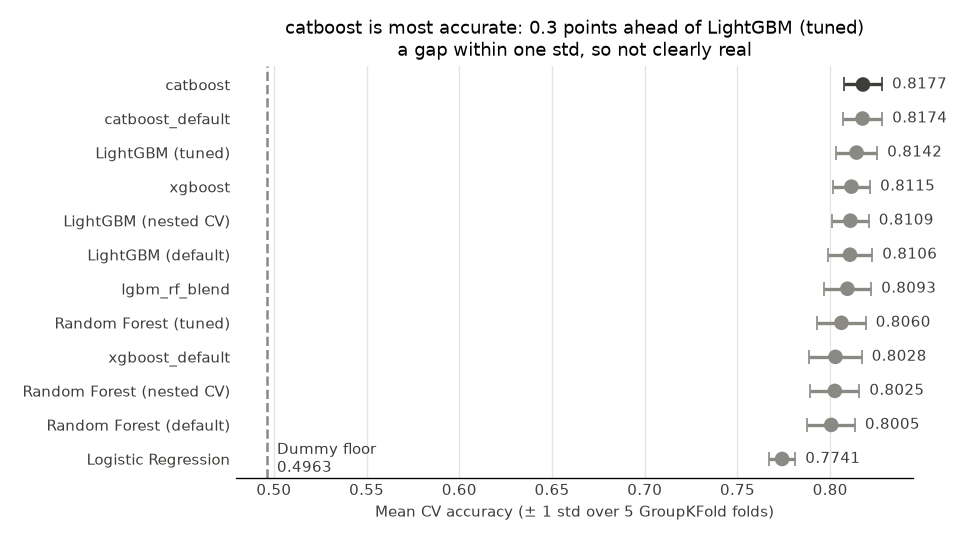
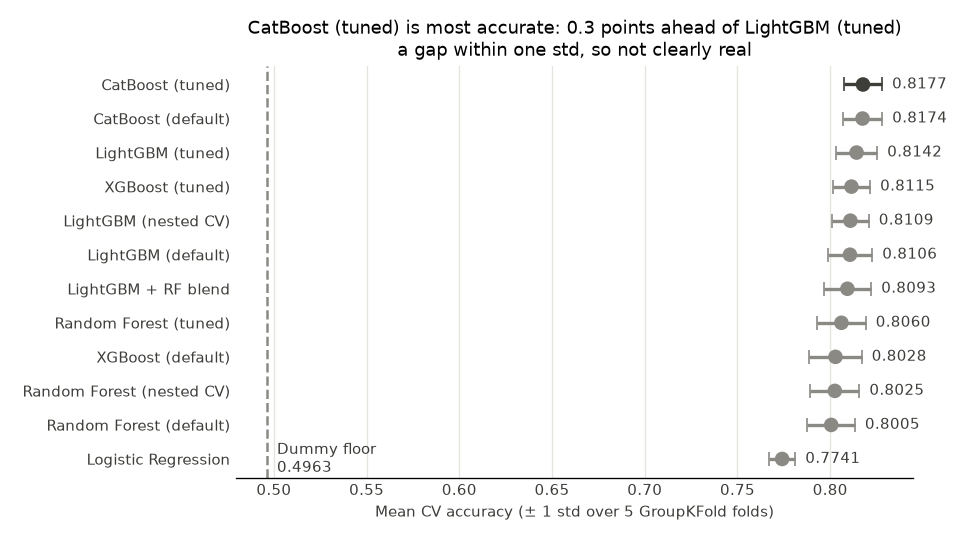
feat: fold-by-fold model check; CatBoost not a clear win, LightGBM stays (refs #19)
- 06b_paired_check.py: refits LightGBM, Random Forest and CatBoost with
  their saved params on the shared folds and applies the 2 x SE rule to
  the per-fold gains. CatBoost vs LightGBM +0.35 pts (4/5 folds, needs
  0.36) -> not a clear win; LightGBM beats RF on 5/5 folds (+0.82)
- 06_compare.py: labels for xgboost, catboost and the blend; chart 13
  highlights its F1 leader and uses fewer x ticks
- reports (roles 1 and 5) synced; agreed slide-10 line; CLAUDE.md lists 06b

diff --git a/06b_paired_check.py b/06b_paired_check.py
@@ -1,0 +1,108 @@
+"""Is a challenger clearly better than the final model? Fold-by-fold check (Role 1).
+
+06_compare.py ranks models by mean accuracy, and every mean has a fold-to-fold
+std of about 1 point. But all models use the same 5 get_cv() folds, so they
+can be compared fold by fold: fold difficulty then cancels out, and the noise
+that matters is how much the per-fold *gain* varies.
+
+Rule (same as 02b_feature_experiments.py): a challenger is a clear win only if
+its mean gain is more than 2 standard errors of the per-fold gains (a rough
+95% check). Otherwise the final model stays, because a smaller lead could be
+which passengers landed in which fold.
+
+Each model is refitted with its saved best_params_<name>.json on the shared
+folds (no re-tuning); the means equal the rows in results.csv. Nothing is
+written. xgboost is not checked: it scores below the final model on average.
+
+Run from the project folder:  python 06b_paired_check.py   (about 1 minute)
+Self-test:                    python 06b_paired_check.py --self-test
+"""
+import importlib
+import json
+import sys
+
+import numpy as np
+import pandas as pd
+from sklearn.model_selection import cross_validate
+
+from src.config import RESULTS_DIR, SEED, TARGET, TRAIN_PATH
+from src.evaluation import get_cv, get_groups
+from src.features import add_features
+
+FINAL = "lightgbm"  # the model 07_final_model.py ships
+
+
+def _catboost_pipeline():
+    # Built exactly as in 04b_xgboost_catboost.py (imported there next to xgboost,
+    # so it is rebuilt here to keep this check runnable without xgboost).
+    from catboost import CatBoostClassifier
+    from sklearn.pipeline import Pipeline
+    from src.features import build_preprocessor
+    return Pipeline([("prep", build_preprocessor()),
+                     ("model", CatBoostClassifier(random_seed=SEED, verbose=0,
+                                                  allow_writing_files=False))])
+
+
+# name -> untuned pipeline, built by the owner's script
+PIPELINES = {
+    "lightgbm": lambda: importlib.import_module("05_lightgbm").make_pipeline(),
+    "random_forest": lambda: importlib.import_module("04_random_forest").make_pipeline(),
+    "catboost": _catboost_pipeline,
+}
+
+
+def paired_verdict(base, challenger):
+    """Mean per-fold gain of challenger over base, and whether it is clear."""
+    gain = pd.Series(challenger) - pd.Series(base)
+    threshold = 2 * gain.std(ddof=1) / np.sqrt(len(gain))
+    return {"gain": gain.mean(), "threshold": threshold, "per_fold": gain,
+            "better_folds": int((gain > 0).sum()), "clear_win": gain.mean() > threshold}
+
+
+def fold_scores(name, X, y, groups):
+    """Accuracy on each shared fold with the model's saved best parameters."""
+    params = json.loads((RESULTS_DIR / f"best_params_{name}.json").read_text())
+    pipe = PIPELINES[name]().set_params(**params)
+    return pd.Series(cross_validate(pipe, X, y, groups=groups, cv=get_cv(),
+                                    scoring="accuracy", error_score="raise")["test_score"])
+
+
+def main():
+    raw = pd.read_csv(TRAIN_PATH)
+    X, y, groups = add_features(raw).drop(columns=[TARGET]), raw[TARGET], get_groups(raw)
+    scores = {name: fold_scores(name, X, y, groups) for name in PIPELINES}
+
+    print("Accuracy per shared fold (saved best params):")
+    for name, s in scores.items():
+        print(f"   {name:14} {', '.join(f'{a:.4f}' for a in s)}  mean {s.mean():.4f}")
+    for name in PIPELINES:
+        if name == FINAL:
+            continue
+        v = paired_verdict(scores[FINAL], scores[name])
+        print(f"\n{name} vs {FINAL}: gain {v['gain'] * 100:+.2f} pts (per fold "
+              f"{', '.join(f'{g * 100:+.2f}' for g in v['per_fold'])}; better on "
+              f"{v['better_folds']}/5); needs > 2 x SE = {v['threshold'] * 100:.2f} pts -> "
+              + (f"clear win: the team should consider switching to {name}."
+                 if v["clear_win"] else f"not a clear win: {FINAL} stays the final model."))
+
+
+def _self_test():
+    """The verdict follows the 2 x standard-error rule on the per-fold gains."""
+    import pandas as pd
+
+    base = pd.Series([0.80, 0.81, 0.82, 0.79, 0.80])
+    # Ahead on every fold by about 1 point: a clear, consistent win.
+    clear = paired_verdict(base, base + [0.010, 0.011, 0.009, 0.010, 0.012])
+    assert clear["clear_win"] and clear["better_folds"] == 5
+    # Same mean gain but it swings across folds: not clearly real.
+    noisy = paired_verdict(base, base + [0.04, -0.02, 0.03, -0.01, 0.01])
+    assert not noisy["clear_win"]
+    assert abs(noisy["gain"] - 0.01) < 1e-12
+    print("Self-test passed: paired_verdict() applies the 2 x SE rule.")
+
+
+if __name__ == "__main__":
+    if "--self-test" in sys.argv:
+        _self_test()
+    else:
+        main()

diff --git a/06_compare.py b/06_compare.py
@@ -13,6 +13,7 @@ Self-test: python 06_compare.py --self-test
 import sys
 
 import matplotlib.pyplot as plt
+from matplotlib.ticker import MaxNLocator
 import pandas as pd
 
 from src.config import PLOT_DIR, RESULTS_DIR
@@ -25,7 +26,12 @@ LABELS = {"dummy_most_frequent": "Dummy (most frequent)",
           "lightgbm_default": "LightGBM (default)",
           "lightgbm": "LightGBM (tuned)",
           "random_forest_nested": "Random Forest (nested CV)",
-          "lightgbm_nested": "LightGBM (nested CV)"}
+          "lightgbm_nested": "LightGBM (nested CV)",
+          "xgboost_default": "XGBoost (default)",
+          "xgboost": "XGBoost (tuned)",
+          "catboost_default": "CatBoost (default)",
+          "catboost": "CatBoost (tuned)",
+          "lgbm_rf_blend": "LightGBM + RF blend"}
 METRICS = {"precision_mean": "Precision", "recall_mean": "Recall", "f1_mean": "F1"}
 
 
@@ -154,7 +160,9 @@ def plot_accuracy(table, path):
 def plot_prf(table, path, top=3):
     """Three small panels (precision | recall | F1) for the top models."""
     models = _candidates(table).head(top).iloc[::-1]
-    colors = [INK if m == _verdict(table)[0]["model"] else NEUTRAL for m in models["model"]]
+    # Highlight the F1 leader, the model this chart's title is about.
+    best = models.loc[models["f1_mean"].idxmax()]  # computed, not assumed
+    colors = [INK if m == best["model"] else NEUTRAL for m in models["model"]]
     lo = models[list(METRICS)].min().min() - 0.02
     hi = models[list(METRICS)].max().max() + 0.02
 
@@ -166,10 +174,10 @@ def plot_prf(table, path, top=3):
                         ha="center", fontsize=9, color=INK)
         ax.set_ylim(-0.6, len(models) - 0.5)
         ax.set_xlim(lo, hi)
+        ax.xaxis.set_major_locator(MaxNLocator(nbins=4))  # no labels colliding between panels
         ax.set_title(name, fontsize=10)
         _style(ax, [_label(m) for m in models["model"]], "")
     # Recall vs precision tells the slide which way each model errs.
-    best = models.loc[models["f1_mean"].idxmax()]  # computed, not assumed
     leans = "finding transported passengers (recall)" if best["recall_mean"] > best["precision_mean"] \
         else "being right when it says transported (precision)"
     fig.suptitle(f"{_label(best['model'])} leads on F1 and is slightly better at {leans}",

diff --git a/reports/role5_presentation.md b/reports/role5_presentation.md
@@ -1,13 +1,12 @@
 # Role 5 – Analysis & presentation (Bard)
-Last updated: 2026-11-15 · Status: In progress
+Last updated: 2026-11-20 · Status: In progress
 
 ## 1. Slide summary
-- Tuned LightGBM has the highest mean CV accuracy: **0.8142 ± 0.0112** (5 GroupKFold folds).
-- Its lead is small: 0.8 points ahead of the best other algorithm, Random Forest tuned (0.8060 ± 0.0131), a gap within one standard deviation, so it may not be meaningful; it fits in 0.17 s per fold against 2.05 s.
-- Tuning added only 0.4 points over LightGBM default (0.8106 ± 0.0121), also within one standard deviation.
-- The four tree models are close together (0.8005–0.8142); all beat Logistic Regression (0.7741 ± 0.0071).
+- Three boosting libraries land within 0.62 points: CatBoost (tuned) 0.8177 ± 0.0103, LightGBM (tuned) 0.8142 ± 0.0112, XGBoost (tuned) 0.8115 ± 0.0101 (5 GroupKFold folds).
+- CatBoost is slightly ahead of LightGBM (+0.35 pts, better on 4/5 folds), but the fold-by-fold check needs > 0.36 pts, so it is not a clear win; LightGBM fits in 0.17 s per fold against 2.55 s.
+- LightGBM clearly beats tuned Random Forest (0.8060 ± 0.0131): +0.82 pts and better on all 5 folds (threshold 0.39 pts).
+- Tuning matters little: CatBoost default (0.8174 ± 0.0106) is almost the same as tuned; every tree model beats Logistic Regression (0.7741 ± 0.0071).
 - Every model beats the Dummy floor of 0.4963, so they all learned real signal.
-- Tuned LightGBM also has the best recall (0.8267) and F1 (0.8176); Random Forest tuned has slightly higher precision (0.8129).
 
 ## 2. What I did
 Numbered steps in the order done, each with the script/function that does it.
@@ -15,29 +14,38 @@ Numbered steps in the order done, each with the script/function that does it.
 1. Created the five role reports in `reports/` from the CLAUDE.md template, each with its role's deliverables as a checklist (`/create-reports`).
 2. Wrote `06_compare.py` with Role 1 (Pun), test first: `python 06_compare.py --self-test` checks `latest_per_model()`, `comparison_table()` and `conclusion()` on a small made-up table (including a model logged twice), then the implementation was written until it passed.
 3. `06_compare.py` reads `results/results.csv` only (no retraining, no recomputed scores) and keeps the latest row per model name (`latest_per_model()`).
-4. `comparison_table()` writes `results/model_comparison.csv`, sorted by mean CV accuracy; `conclusion()` prints the winner, its gap to the best model of a *different* algorithm (so tuned vs untuned LightGBM is not mistaken for the model choice), the tuning gain over its own default, and whether each gap is within one std. The Dummy claim is only printed when it holds.
-5. `plot_accuracy()` → `plots/12_model_accuracy.png`; `plot_prf()` → `plots/13_precision_recall_f1.png` (top 3 models).
+4. `comparison_table()` writes `results/model_comparison.csv`, sorted by mean CV accuracy; `conclusion()` prints the winner, its gap to the best model of a *different* algorithm (so tuned vs untuned CatBoost is not mistaken for the model choice), the tuning gain over its own default, and whether each gap is within one std. A nested-CV line is printed only when the winner has a nested row; the Dummy claim only when it holds.
+5. `plot_accuracy()` → `plots/12_model_accuracy.png`; `plot_prf()` → `plots/13_precision_recall_f1.png` (top 3 models, the F1 leader highlighted).
+6. Added display labels (`LABELS` in `06_compare.py`) for the new rows `xgboost`, `xgboost_default`, `catboost`, `catboost_default` (PR #28, Roles 3 and 2) and `lgbm_rf_blend` (Role 4), and re-ran the script.
+7. Used Role 1's `06b_paired_check.py` to compare the challengers with LightGBM fold by fold on the shared folds, because the ±1 std overlap in `06_compare.py` cannot tell whether a small lead is real (results in section 4).
 
 ## 3. Key decisions and why
 | Decision | Why | Evidence (number, chart or source) |
 |---|---|---|
 | Comparison reads `results.csv` only, never retrains | Rule 3: every slide number must trace to `evaluate()`; retraining could give numbers different from the role reports | `06_compare.py` reads only `results/results.csv`; its table matches `results.csv` row for row |
 | Keep the latest row per model name | A re-run appends a new row; the newest run is the one the owner's report describes | `latest_per_model()`; covered by the self-test (duplicate `rf` row) |
-| Dot + ±1 std plot, not bars | A bar must start at 0, which would squash the 0.77–0.81 differences into nearly identical bars; a dot plot can zoom the axis honestly | `plots/12_model_accuracy.png` |
+| Dot + ±1 std plot, not bars | A bar must start at 0, which would squash the 0.77–0.82 differences into nearly identical bars; a dot plot can zoom the axis honestly | `plots/12_model_accuracy.png` |
 | Neutral `#8a8984` + dark ink for the winner, not blue/orange | The team reserves `#2a78d6` / `#eb6834` for transported / not transported; reusing them for models would confuse the audience | CLAUDE.md shared rule 8 |
 | Small multiples (one panel per metric) for precision/recall/F1 instead of a 3-colour grouped bar | Same colour reason, and each metric gets its own readable panel | `plots/13_precision_recall_f1.png` |
 | Dummy shown as a dashed floor line, not a dot | It is a reference point (0.4963), not a competitor | `plots/12_model_accuracy.png` |
+| Judge "is model A better than B?" fold by fold, not by std overlap | All models use the same folds, so fold difficulty cancels; a clear win needs mean per-fold gain > 2 × standard error | `06b_paired_check.py`: LightGBM vs RF 0.82 pts (needs > 0.39, clear); CatBoost vs LightGBM +0.35 pts (needs > 0.36, not clear) |
+| Ship LightGBM, not CatBoost | CatBoost's lead is not a clear win fold by fold; LightGBM was the pre-set choice and fits about 15× faster | `06b_paired_check.py` output; `results.csv` fit times 2.5505 s (CatBoost) vs 0.1735 s (LightGBM) per fold |
 | No separate task board or meeting notes file | No regular meetings are planned, and a Markdown board would duplicate the `CLAUDE.md` Status checklist, each report's section 9 and the GitHub PRs | Teamwork evidence = `CLAUDE.md` Status checklist + reviewed, merged PRs (#1–#4 so far) |
 
 ## 4. Results
-Copied from the printed output of `python 06_compare.py` (run 2026-10-31); also saved as `results/model_comparison.csv`. CV = 5-fold GroupKFold by travel group.
+Copied from the printed output of `python 06_compare.py` (run 2026-11-20); also saved as `results/model_comparison.csv`. CV = 5-fold GroupKFold by travel group.
 
 | Model | Owner | Accuracy (mean ± std) | Precision | Recall | F1 | ROC-AUC | Fit time (s) |
 |---|---|---|---|---|---|---|---|
+| catboost (tuned) | Roles 3 and 2 | 0.8177 ± 0.0103 | 0.8141 | 0.8269 | 0.8203 | 0.9085 | 2.5505 |
+| catboost_default | Roles 3 and 2 | 0.8174 ± 0.0106 | 0.8117 | 0.8304 | 0.8208 | 0.9084 | 3.9357 |
 | lightgbm (tuned) | Role 4 | 0.8142 ± 0.0112 | 0.8088 | 0.8267 | 0.8176 | 0.9025 | 0.1735 |
+| xgboost (tuned) | Roles 3 and 2 | 0.8115 ± 0.0101 | 0.8147 | 0.8098 | 0.8121 | 0.9028 | 0.6325 |
 | lightgbm_nested | Role 1 | 0.8109 ± 0.0099 | 0.8056 | 0.8234 | 0.8142 | 0.9042 | 35.7492* |
 | lightgbm_default | Role 4 | 0.8106 ± 0.0121 | 0.8080 | 0.8188 | 0.8132 | 0.9030 | 0.1002 |
+| lgbm_rf_blend | Role 4 | 0.8093 ± 0.0129 | 0.8078 | 0.8154 | 0.8114 | 0.9022 | 1.3082 |
 | random_forest (tuned) | Role 3 | 0.8060 ± 0.0131 | 0.8129 | 0.7991 | 0.8057 | 0.8950 | 2.0473 |
+| xgboost_default | Roles 3 and 2 | 0.8028 ± 0.0142 | 0.8083 | 0.7975 | 0.8028 | 0.8966 | 0.2056 |
 | random_forest_nested | Role 1 | 0.8025 ± 0.0133 | 0.8078 | 0.7979 | 0.8026 | 0.8944 | 53.2444* |
 | random_forest_default | Role 3 | 0.8005 ± 0.0128 | 0.8270 | 0.7638 | 0.7940 | 0.8852 | 1.2509 |
 | logistic_regression | Role 2 | 0.7741 ± 0.0071 | 0.7668 | 0.7922 | 0.7792 | 0.8525 | 0.0448 |
@@ -45,37 +53,55 @@ Copied from the printed output of `python 06_compare.py` (run 2026-10-31); also 
 
 \* Nested rows come from `05b_nested_cv.py` (Role 1, issue #16): an honest re-score of the tuned model, not a separate model. Their fit time includes the whole inner search, so it is not comparable.
 
-Printed conclusion (verbatim): "LightGBM (tuned) has the highest mean CV accuracy, 0.8142 ± 0.0112, 0.8 points ahead of Random Forest (tuned) (0.8060 ± 0.0131). The gap is within one standard deviation, so the difference may not be meaningful. It fits in 0.17 s per fold against 2.05 s. Tuning adds 0.4 points over LightGBM (default) (0.8106 ± 0.0121), also within one standard deviation. Nested CV, which removes the luck of picking the best of many settings, gives LightGBM (nested CV) 0.8109 ± 0.0099, 0.3 points below the tuned score: that is the honest estimate for new data. Every model beats the Dummy floor of 0.4963, so they all learned real signal."
+Printed conclusion (verbatim): "CatBoost (tuned) has the highest mean CV accuracy, 0.8177 ± 0.0103, 0.3 points ahead of LightGBM (tuned) (0.8142 ± 0.0112). The gap is within one standard deviation, so the difference may not be meaningful. It fits in 2.55 s per fold against 0.17 s. Tuning adds 0.0 points over CatBoost (default) (0.8174 ± 0.0106), also within one standard deviation. Every model beats the Dummy floor of 0.4963, so they all learned real signal."
 
-The 0.8- and 0.4-point gaps above are printed by the script. One extra gap for Q&A, by plain subtraction of the printed means: tuning added 0.0055 accuracy to Random Forest (0.8060 vs 0.8005).
+The gaps in the conclusion are printed by the script. Extra gaps for Q&A, by plain subtraction of the printed means: tuning added 0.0055 accuracy to Random Forest (0.8060 vs 0.8005), 0.0036 to LightGBM (0.8142 vs 0.8106) and 0.0087 to XGBoost (0.8115 vs 0.8028); the three tuned boosting models span 0.0062 (0.8115 to 0.8177).
+
+**Fold-by-fold check:** copied from the printed output of `python 06b_paired_check.py` (Role 1, run 2026-11-20). Each model is refitted with its saved `best_params_<name>.json` on the shared `get_cv()` folds (no re-tuning); the means equal the `results.csv` rows. Rule: a challenger is a clear win only if its mean per-fold gain is more than 2 × the standard error of the per-fold gains.
+
+| Model | Fold 1 | Fold 2 | Fold 3 | Fold 4 | Fold 5 | Mean |
+|---|---|---|---|---|---|---|
+| lightgbm | 0.8281 | 0.8217 | 0.8189 | 0.7986 | 0.8038 | 0.8142 |
+| random_forest | 0.8194 | 0.8212 | 0.8074 | 0.7894 | 0.7929 | 0.8060 |
+| catboost | 0.8321 | 0.8269 | 0.8154 | 0.8055 | 0.8084 | 0.8177 |
+
+Verdicts (verbatim):
+- "random_forest vs lightgbm: gain -0.82 pts (per fold -0.86, -0.06, -1.15, -0.92, -1.09; better on 0/5); needs > 2 x SE = 0.39 pts -> not a clear win: lightgbm stays the final model."
+- "catboost vs lightgbm: gain +0.35 pts (per fold +0.40, +0.52, -0.35, +0.69, +0.46; better on 4/5); needs > 2 x SE = 0.36 pts -> not a clear win: lightgbm stays the final model."
+
+Read the first verdict the other way round: LightGBM beats tuned Random Forest on all 5 folds, by 0.82 pts on average, more than the 0.39-pt threshold, so that is a clear win for LightGBM. XGBoost is not checked by the script because it scores below LightGBM on average (0.8115 vs 0.8142).
 
 ## 5. Charts for the slides
 | File in plots/ | One-line caption (the finding) | Suggested slide |
 |---|---|---|
-| `plots/12_model_accuracy.png` | Tuned LightGBM is most accurate (0.8142), but the four tree models' ±1 std bars overlap; every model is far above the Dummy floor (0.4963) | Slide 10 – Model comparison |
-| `plots/13_precision_recall_f1.png` | Tuned LightGBM leads on F1 (0.8176) and recall (0.8267); Random Forest tuned trades recall (0.7991) for slightly higher precision (0.8129) | Slide 10 (second half) or Slide 11 – Best model |
+| `plots/12_model_accuracy.png` | CatBoost (tuned) is most accurate (0.8177), 0.3 points ahead of LightGBM (tuned) (0.8142), a gap within one std; all tree and boosting models sit between 0.8005 and 0.8177 with overlapping ±1 std bars, far above the Dummy floor (0.4963) | Slide 10 – Model comparison |
+| `plots/13_precision_recall_f1.png` | Among the top 3 by accuracy, CatBoost (default) leads on F1 (0.8208) and recall (0.8304), CatBoost (tuned) has the best precision (0.8141), and LightGBM (tuned) is close behind (F1 0.8176) | Slide 10 (second half) or Slide 11 – Best model |
 
 ## 6. Bias and leakage checks
 - **Numbers only from `evaluate()`:** `06_compare.py` reads `results/results.csv` and nothing else; it does not retrain or recompute any score (shared rule 3).
 - **Same folds for every model:** every row in `results.csv` comes from `evaluate()` with `get_cv()` (GroupKFold, 5 folds by travel group, `SEED = 42`), so all models are compared on identical splits.
 - **No test.csv:** the comparison and the model choice use CV scores on train.csv only.
 - **Uncertainty shown, not hidden:** the chart and the conclusion report ±1 std and say when a gap is within it, so a small lead is not over-sold.
+- **Paired check before switching models:** `06b_paired_check.py` refits the saved best parameters (no re-tuning) on the same folds; a challenger replaces LightGBM only with a clear fold-by-fold win, so we do not chase a lead that could be fold luck.
 - **Honest axis:** dot plot with a labelled Dummy floor instead of a truncated bar chart, so the visual gap matches the numeric gap.
 
 ## 7. Problems and how I fixed them
 Short bullets: issue → fix. These make good "lessons learned" slides.
 - A re-run appends a second row for the same model to `results.csv` → `latest_per_model()` keeps the newest row per model and prints a note; checked by the self-test.
-- Bars must start at 0, so 0.77 vs 0.81 would look identical → dot plot with ±1 std error bars.
+- Bars must start at 0, so 0.77 vs 0.82 would look identical → dot plot with ±1 std error bars.
 - Blue/orange are reserved for the target classes → team neutral plus dark ink for the winner, and small multiples instead of a 3-colour grouped bar.
+- "Within one std" suggested the LightGBM vs Random Forest gap might not be real, but each model's std also contains how hard each fold is → the fold-by-fold check (`06b_paired_check.py`) cancels fold difficulty and shows LightGBM wins on all 5 folds.
 
 ## 8. Likely Q&A questions
 | Question | Short answer |
 |---|---|
-| Is LightGBM really better than Random Forest? | Not clearly. Tuned LightGBM 0.8142 ± 0.0112 vs tuned RF 0.8060 ± 0.0131: a 0.0082 gap, smaller than either std. LightGBM is best on average, has the best F1 (0.8176) and recall (0.8267), and fits much faster (0.1735 s vs 2.0473 s), so it is a reasonable pick, not a proven winner. |
-| Why does tuning add so little? | Both tree models are already strong with default settings; tuning added 0.0036 (LightGBM) and 0.0055 (RF) accuracy, both within one std. Most of the gain comes from the features and the model family, not the hyperparameters. |
+| Is LightGBM really better than Random Forest? | Yes. On the same 5 folds LightGBM beats tuned RF on every fold, by 0.82 pts on average; the clear-win threshold (2 × standard error) is 0.39 pts. The means (0.8142 ± 0.0112 vs 0.8060 ± 0.0131) overlap within one std only because each std includes fold difficulty, which cancels when comparing fold by fold. |
+| CatBoost scores highest, why not ship it? | Its lead over LightGBM is +0.35 pts and it is better on 4/5 folds, but a clear win needs > 0.36 pts, so it is not a clear win. LightGBM fits about 15× faster (0.17 s vs 2.55 s per fold) and was the pre-set choice, so it stays. |
+| Why compare fold by fold? | Every model uses the same `get_cv()` folds, so how hard each fold is cancels out when we subtract scores fold by fold. The spread of the per-fold gain is then the right noise measure, not the ±1 std of each model's mean. |
+| Why does tuning add so little? | The tree models are already strong with default settings: tuning added 0.0036 (LightGBM), 0.0055 (RF) and 0.0087 (XGBoost) accuracy, and CatBoost tuned (0.8177) is almost the same as default (0.8174), all within one std. Most of the gain comes from the features and the model family, not the hyperparameters. |
 | Where do the numbers on the comparison slide come from? | Only from `results/results.csv`, written by `evaluate()` in each model script. `06_compare.py` copies them; it never retrains. |
 | Were all models compared fairly? | Yes: the same `get_cv()` GroupKFold folds (by travel group), the same `build_preprocessor()` inside a Pipeline, the same seed, and tuning only through CV on train.csv. |
-| Why a dot plot and not a bar chart? | Bars must start at 0, which hides 0.77–0.81 differences; a dot with ±1 std shows both the gap and the uncertainty honestly. |
+| Why a dot plot and not a bar chart? | Bars must start at 0, which hides 0.77–0.82 differences; a dot with ±1 std shows both the gap and the uncertainty honestly. |
 | Why is the Dummy's recall 0.8000? | It always predicts the majority class of the training folds; recall is 1 on folds where that class is "True" and 0 otherwise, so the 5-fold mean is 0.8000. Its accuracy (0.4963) is the floor every model must beat. |
 
 ## 9. Open items / handover
@@ -86,8 +112,8 @@ What's not done yet and who needs what from me.
 - [ ] Build slides from `reports/`: read reports regularly, ask owners when a section is empty or a number doesn't match `results.csv`
 - [ ] Keep this report up to date: slide plan with source reports, missing content, rehearsal notes (timing, who presents what)
 - [ ] `notes/qa_prep.md`: collect section 8 from every report + likely questions ("Why GroupKFold?", "Why accuracy?", "Why drop Name?", "How did you prevent leakage?", "Why this model?"); make sure every member rehearses them
-- [x] `06_compare.py` (with Role 1): comparison table and chart from `results.csv` (mean ± std across folds) – script, `results/model_comparison.csv` and plots 12–13 done; merged in PR #13. Nested-CV rows added by Role 1 (issue #16): they show in the table and chart 12 but never as the runner-up or in chart 13
-- [ ] State on slide 10 that tuned LightGBM's lead over LightGBM default (0.4 pts: 0.8142 vs 0.8106) and over Random Forest tuned (0.8142 vs 0.8060) is within one std, so the choice rests on the best mean plus speed, not on a proven difference
+- [x] `06_compare.py` (with Role 1): comparison table and chart from `results.csv` (mean ± std across folds) – script, `results/model_comparison.csv` and plots 12–13 done; merged in PR #13. Nested-CV rows added by Role 1 (issue #16): they show in the table and chart 12 but never as the runner-up or in chart 13. Labels for XGBoost, CatBoost and the LightGBM + RF blend added 2026-11-20
+- [ ] Put the team's agreed wording on slide 10: "Three boosting libraries land within 0.62 points (81.15%–81.77%). CatBoost is slightly ahead (+0.35 pts) but not a clear win fold by fold, so we ship LightGBM: about 15× faster to fit. LightGBM does clearly beat Random Forest (better on all 5 folds)." Checked against `results.csv` and `06b_paired_check.py`: xgboost 0.8115, catboost 0.8177 (gap 0.0062); fit times 2.5505 s vs 0.1735 s per fold; CatBoost +0.35 pts (needs > 0.36); LightGBM better than RF on 5/5 folds.
 - [ ] Re-run `python 06_compare.py` whenever a model script is re-run, so the table and plots match `results.csv`
 - [x] Teamwork evidence: decided to use the `CLAUDE.md` Status checklist + GitHub PRs instead of a task board and `notes/meetings.md` (see section 3). `CLAUDE.md` updated to match (Pun to review the PR).
 - [ ] At least one full timed rehearsal with the whole team

diff --git a/reports/role1_lead.md b/reports/role1_lead.md
@@ -1,9 +1,9 @@
 # Role 1 – Lead / integrator (Pun)
-Last updated: 2026-11-15 · Status: Done
+Last updated: 2026-11-20 · Status: Done
 
 ## 1. Slide summary
 - **Final model: LightGBM**, CV accuracy **0.8142 ± 0.0112** (ROC-AUC 0.9025), retrained on all 8,693 rows → `submission.csv` (4,277 rows).
-- LightGBM vs Random Forest (0.8060 ± 0.0131) is within one std, but LightGBM is ~12× faster to fit (0.17 s vs 2.05 s per fold) → best on both counts.
+- Fold by fold (`06b_paired_check.py`), LightGBM **clearly** beats Random Forest (+0.82 pts, better on all 5 folds) and fits ~12× faster. CatBoost (0.8177) is +0.35 pts ahead of LightGBM but **not** a clear win (needs > 0.36 pts), so LightGBM stays the final model.
 - The whole pipeline 01→07 (including 06_compare) re-runs from a clean checkout in ~196 s with **identical** scores, parameters, comparison table, 13 plots and submission.
 - Every model is validated on the **same 5 GroupKFold folds**, grouped by travel group (`gggg` of `PassengerId`).
 - Every model is scored by **one function**, `evaluate()`: accuracy, precision, recall, F1, ROC-AUC (mean ± std) and fit time, logged to `results/results.csv`.
@@ -26,6 +26,8 @@ Last updated: 2026-11-15 · Status: Done
 11. Final clean run on 2026-10-31 after `06_compare.py` was merged: all 7 scripts exit 0; `results.csv` metrics, both `best_params` files, `model_comparison.csv`, `eda_findings.txt`, all 13 plots and `submission.csv` (byte for byte) identical to `main`.
 
 12. `05b_nested_cv.py` (issue #16): for each of the 5 shared outer folds, re-runs 04/05's exact random search (same space, 30 settings, seed) on the other 4 folds with inner folds grouped by travel group, refits the best setting there and scores it on the unseen outer fold. Logged with `evaluate()` as `random_forest_nested` / `lightgbm_nested`. `06_compare.py` shows these rows but never treats them as rival models.
+13. `06b_paired_check.py` (after PR #28 added CatBoost): refits LightGBM, Random Forest and CatBoost with their saved best params on the 5 shared folds and compares each challenger with LightGBM fold by fold (clear win only if mean gain > 2 × standard error of the per-fold gains, the rule from `02b`).
+14. Made two extra Kaggle files on request, not committed: `submission_lightgbm.csv` (copy of `submission.csv`) and `submission_catboost.csv` (CatBoost with its saved params, built with `07`'s own functions). The two agree on 4,037 of 4,277 passengers (94.4%). The final model is still chosen by CV, not by Kaggle score.
 
 ## 3. Key decisions and why
 | Decision | Why | Evidence (number, chart or source) |
@@ -37,6 +39,7 @@ Last updated: 2026-11-15 · Status: Done
 | One row per model in results.csv (re-run replaces) | Re-runs before merging must not leave duplicates; comparison can't pick a stale or best-of-N row | Self-test: 2 runs of "dummy" → 1 row |
 | Final model = best tuned model by CV mean accuracy | Accuracy is the Kaggle metric; only models with a `best_params_*.json` are candidates, so baselines are never shipped | `choose_model()` in `07_final_model.py` |
 | Flag when top two are within one std | A gap smaller than fold-to-fold noise isn't a real win; the simpler/faster model is then defensible | Printed note in `07_final_model.py` |
+| Decide model switches fold by fold (2 × SE rule) | All models share the same folds, so fold difficulty cancels; the per-fold gain's spread is the right noise measure, and the one-std rule is too cautious | `06b_paired_check.py`: LightGBM vs RF clear (+0.82, 5/5), CatBoost vs LightGBM not clear (+0.35 vs 0.36 needed) |
 | Refit once on all train.csv, no re-tuning | More data for the final fit; tuning already happened in CV; test.csv never used for choices | `main()` in `07_final_model.py` |
 | Check submission before writing | Columns, 4,277 rows, True/False values and ids matching test.csv row for row | `check_submission()` |
 | Fail loudly on bad target or failed fold | Otherwise sklearn logs NaN scores silently | `error_score="raise"`, bool check on `y` |
@@ -74,6 +77,17 @@ Last updated: 2026-11-15 · Status: Done
 - Nested LightGBM (0.8109) is about the same as default LightGBM (0.8106): once the best-of-30 luck is removed, tuning adds almost nothing.
 - Nested `fit_time_s` (LightGBM 35.75 s, RF 53.24 s per outer fold) includes the whole inner search, so it is not comparable with the other rows.
 
+**Fold-by-fold check** (`python 06b_paired_check.py`, accuracy per shared fold, saved best params):
+
+| Model | Fold 1 | Fold 2 | Fold 3 | Fold 4 | Fold 5 | Mean |
+|---|---|---|---|---|---|---|
+| lightgbm (final) | 0.8281 | 0.8217 | 0.8189 | 0.7986 | 0.8038 | 0.8142 |
+| random_forest | 0.8194 | 0.8212 | 0.8074 | 0.7894 | 0.7929 | 0.8060 |
+| catboost | 0.8321 | 0.8269 | 0.8154 | 0.8055 | 0.8084 | 0.8177 |
+
+- Random Forest vs LightGBM: −0.82 pts (per fold −0.86, −0.06, −1.15, −0.92, −1.09; better on 0/5); threshold 0.39 → LightGBM is clearly better.
+- CatBoost vs LightGBM: +0.35 pts (per fold +0.40, +0.52, −0.35, +0.69, +0.46; better on 4/5); threshold 0.36 → not a clear win, LightGBM stays.
+
 ## 5. Charts for the slides
 | File in plots/ | One-line caption (the finding) | Suggested slide |
 |---|---|---|
@@ -103,7 +117,9 @@ Last updated: 2026-11-15 · Status: Done
 | Why one `evaluate()` for everyone? | Same folds, same metrics, same logging → numbers are comparable and traceable to `results.csv`. |
 | Why retrain on all of train.csv at the end? | CV already chose the model and parameters; the final fit uses all 8,693 rows for the best possible model, with no further tuning. |
 | How do you know test.csv didn't influence the model? | It is only read after the model is chosen and fitted, and is only passed to `predict()`. |
-| Why LightGBM? | Highest CV accuracy (0.8142) and about 12× faster to fit than Random Forest (0.17 s vs 2.05 s per fold). Its 0.8-point lead over Random Forest is within one std, so speed backs the choice too. |
+| Why LightGBM? | It clearly beats Random Forest fold by fold (+0.82 pts, better on all 5 folds) and fits about 12× faster. CatBoost is +0.35 pts ahead of it, but that is not a clear win (needs > 0.36 pts, and fold 3 goes the other way), and LightGBM fits about 15× faster than CatBoost. |
+| Why compare fold by fold instead of by ± std? | Every model uses the same 5 folds, so some folds are hard for all of them. Comparing per fold cancels that, and the spread of the per-fold gains is the right noise measure. |
+| Did you submit more than one model to Kaggle? | We made a CatBoost file for reference, but the final model was fixed by CV before looking at Kaggle; choosing by leaderboard score would use test.csv for model choice. |
 | Why tuned LightGBM, not the default? | Tuning added only 0.4 points (0.8142 vs 0.8106), within one std, so the default would be about as good. `07_final_model.py` only ships tuned models (those with saved best params), and the gap is honest to report as "not clearly real". |
 | Is the tuned score optimistic? | Slightly. Nested CV, where each outer fold is scored by a model tuned without it, gives LightGBM 0.8109 vs 0.8142 tuned (0.3 points) and Random Forest 0.8025 vs 0.8060 (0.4 points). |
 | What is nested CV? | Tuning is repeated inside each outer training part, so the fold used for scoring never influenced the choice of settings. It costs about 5× the fits (750 per model). |

diff --git a/CLAUDE.md b/CLAUDE.md
@@ -46,6 +46,7 @@ DS Model Training/
 ├── 05b_nested_cv.py          # Role 1 – nested CV: unbiased score for the tuned models (slow, issue #16)
 ├── 05c_blend.py              # Role 4 – soft-voting blend of tuned LightGBM + Random Forest (issue #19)
 ├── 06_compare.py             # Role 5 (with Role 1) – comparison table and charts from results.csv
+├── 06b_paired_check.py       # Role 1 – is a challenger clearly better than the final model? fold-by-fold check
 ├── 07_final_model.py         # Role 1 – retrain the best model on all of train.csv, write submission.csv
 ├── plots/                    # all charts, numbered NN_name.png (used in slides)
 ├── results/                  # results.csv, best_params_<model>.json, eda_findings.txt
